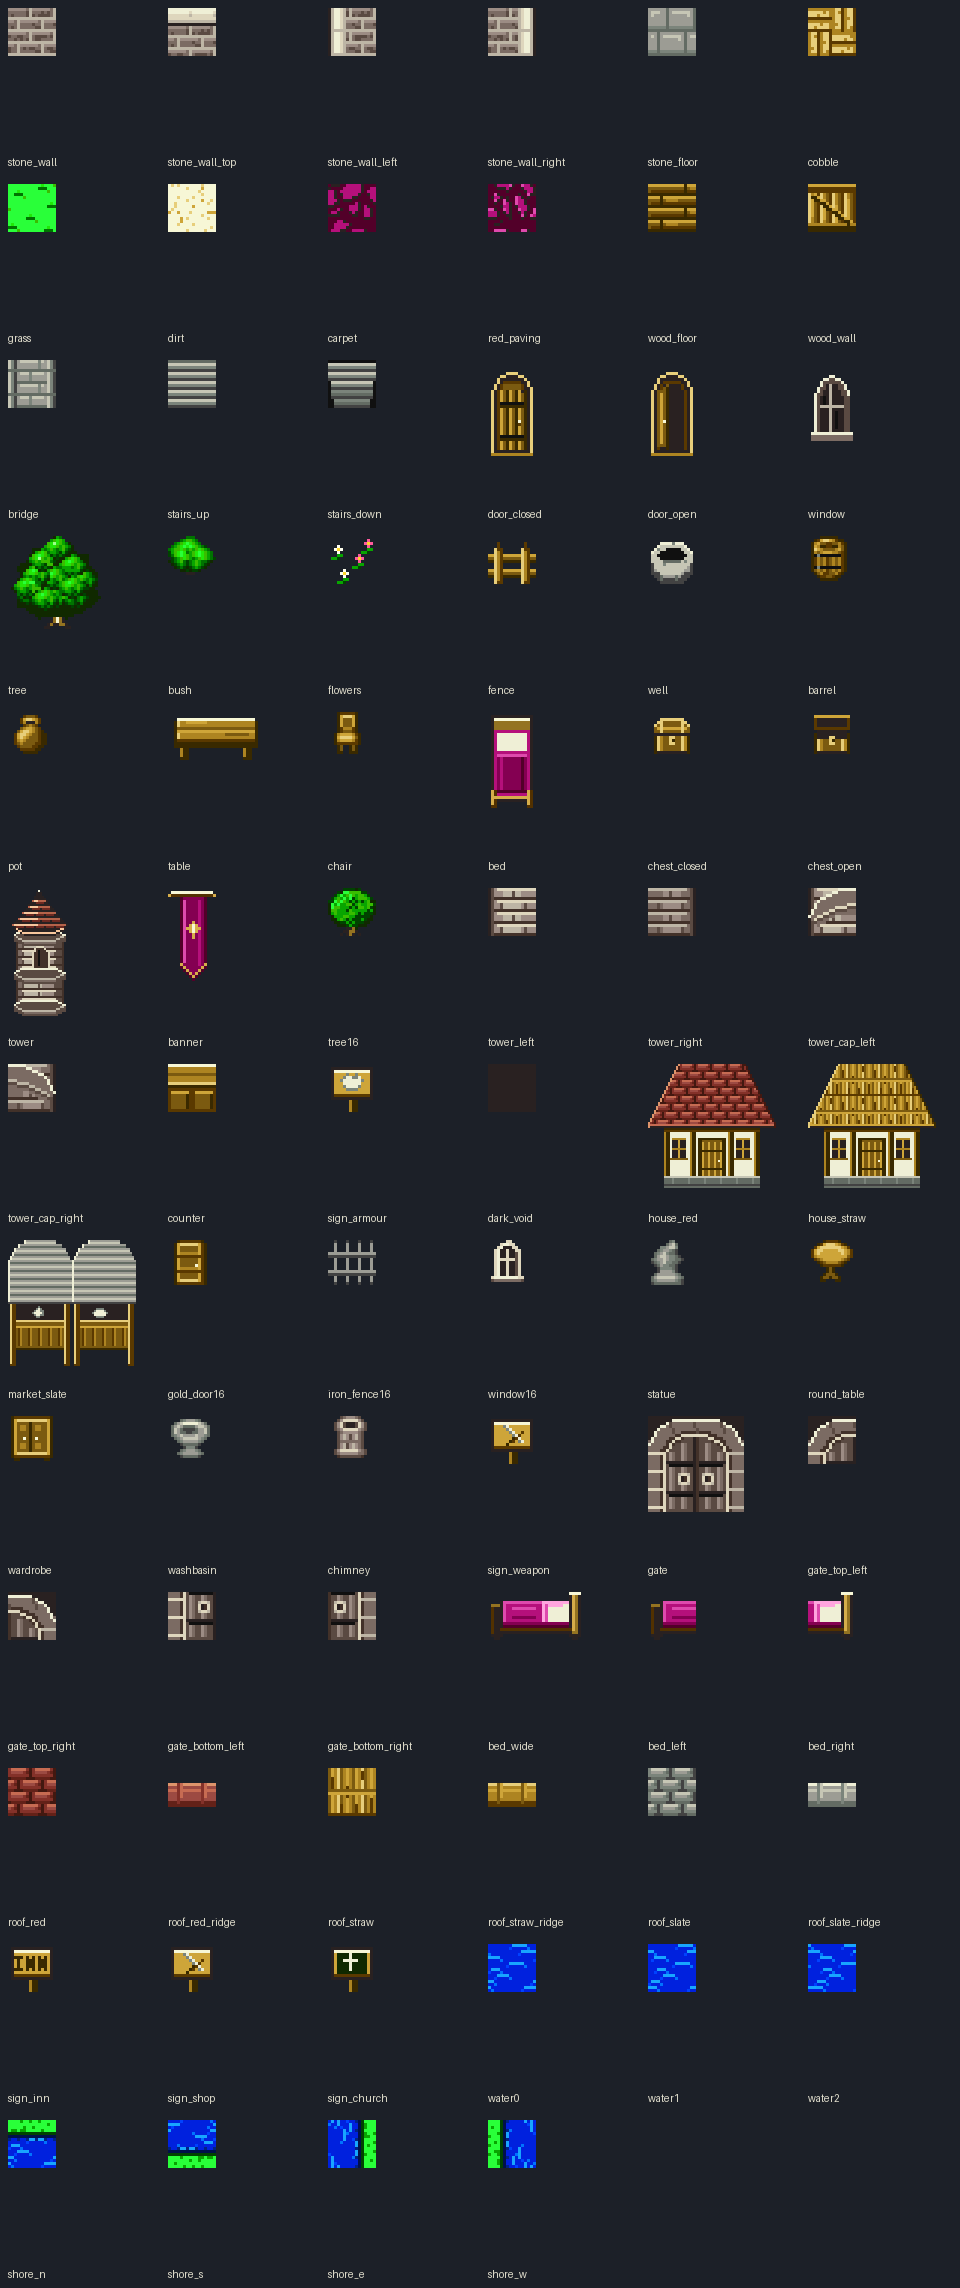
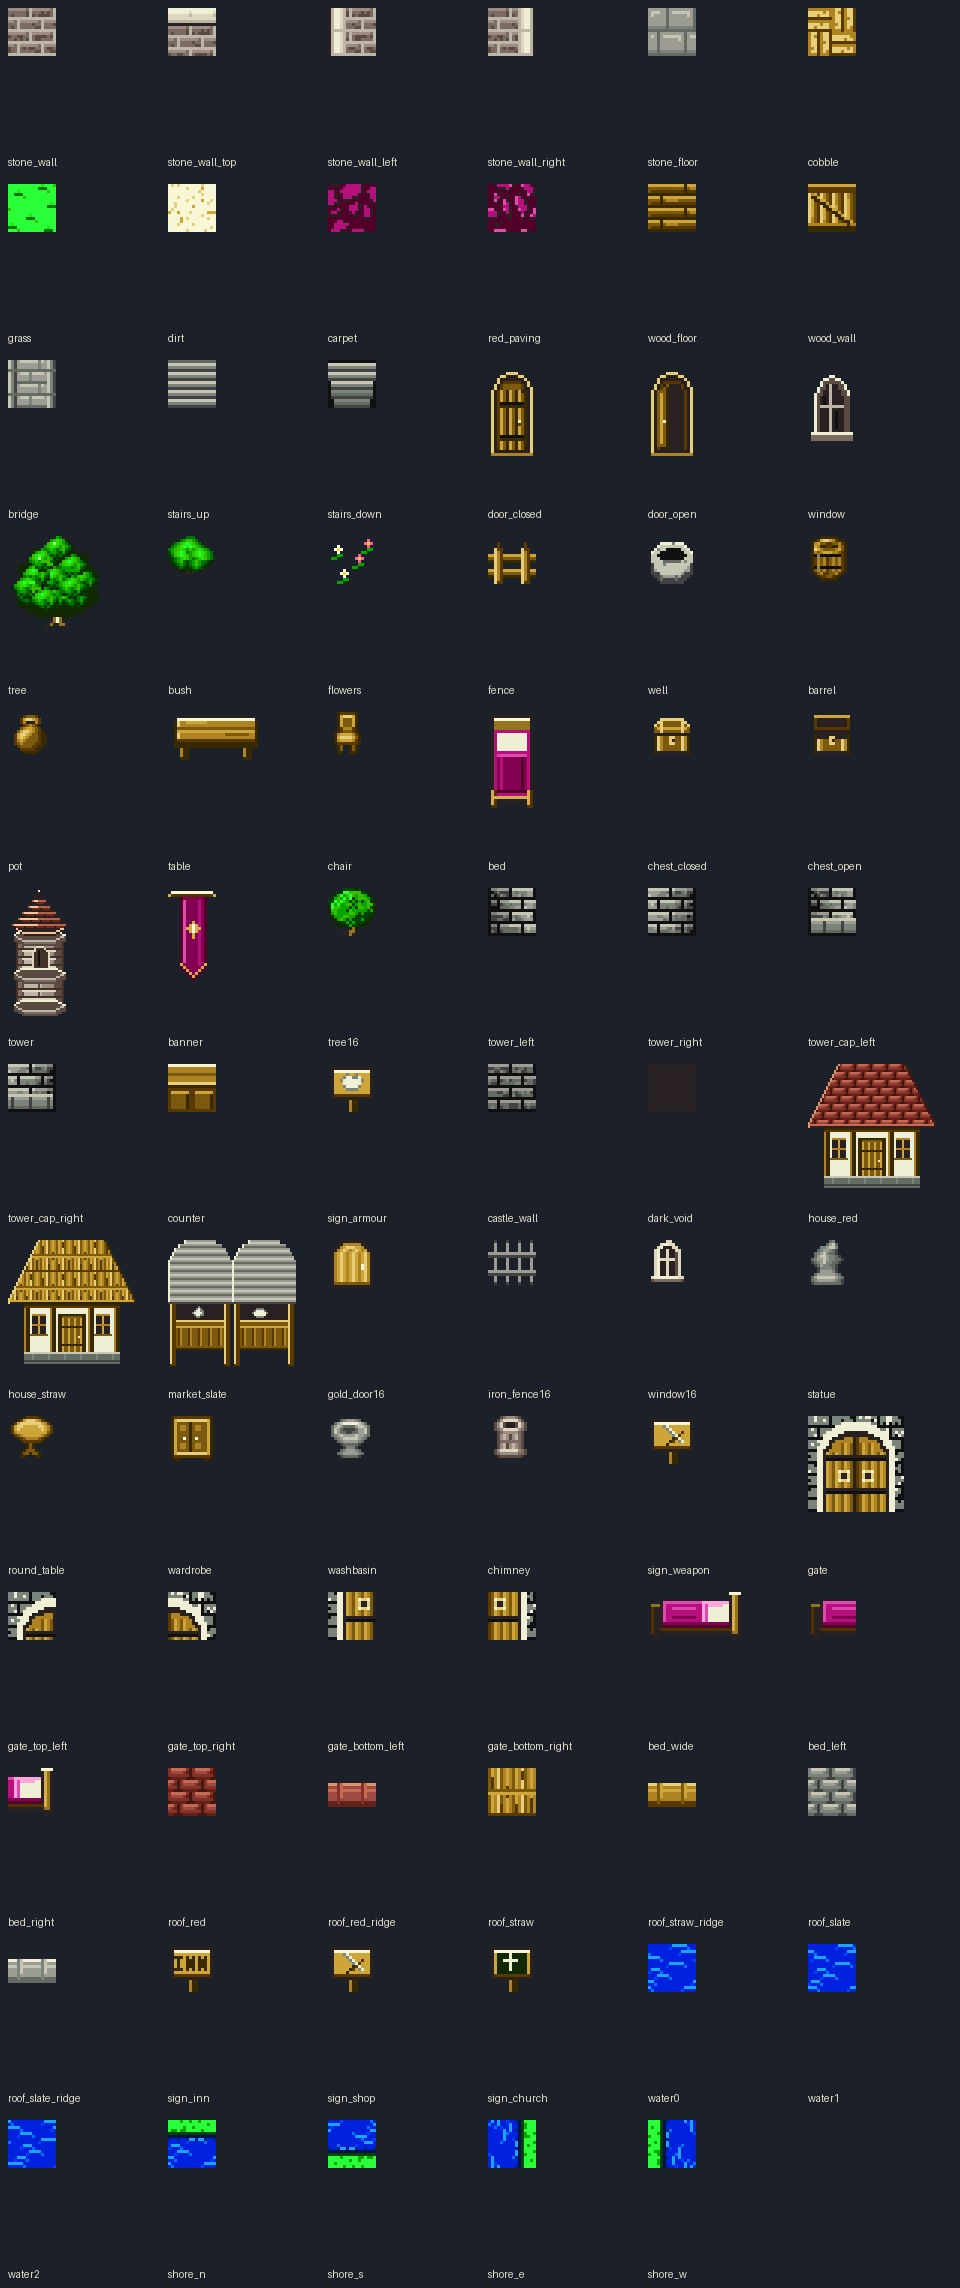
feat: 바트랜드 성 몸체·성탑·문을 어두운 DQ5 석재로 다시 그림
바트랜드 02/00 의 성 몸체는 마을 벽 06·07 과 다른 블록 08 이고 FC 에서도
검은 줄눈의 어두운 벽돌이다. 지금까지 08 을 마을 벽과 같은 밝은 석벽으로
그려 성과 집이 구분되지 않았다. castle_wall 을 따로 두고, 성탑 두 블록은
32픽셀 원통으로 음영을 넣고, 문·성문은 DQ5 식 돌 아치와 나무 문으로 그렸다.
에셋 77종, 인코딩 왕복 RGB 차이 0, 단위 테스트 7개 통과.

diff --git a/sfc/dq4/tools/dq4environmentart.py b/sfc/dq4/tools/dq4environmentart.py
@@ -651,65 +651,87 @@ def _tree16():
     return _finish(c, "작은 활엽수", "town")
 
 
-def _tower_segment(right=False, cap=False):
-    c = _Canvas(2, fill=2)
-    for y in range(0, 16, 4):
+def _castle_bricks(c, x0=0, width=16, top=0, bottom=15, shade=None):
+    """Dark DQ5 castle masonry: black joints, a lit top edge on each brick, speckled faces."""
+    rng = random.Random(31 + x0)
+    for y in range(top, bottom + 1):
+        row, yy = divmod(y - top, 4)
         for x in range(16):
-            color = (3 if x < 2 else 5 if x < 5 else 6 if x < 11 else 5)
-            c.line((x, y, x, y + 2), color)
-        c.line((3, y, 15, y), 7)
-        for x in range(4 if y % 8 else 8, 16, 8):
-            c.line((x, y + 1, x, y + 2), 3)
-    c.line((0, 0, 0, 15), 1)
-    c.line((1, 0, 1, 15), 3)
+            gx = x0 + x
+            body = shade(gx) if shade else 3
+            joint = (gx + (4 if row & 1 else 0)) % 8 == 7
+            if yy == 3 or joint:
+                color = 1
+            elif yy == 0:
+                color = min(body + 2, 6)
+            else:
+                v = rng.random()
+                color = body - 1 if v < 0.25 else body + 1 if v > 0.9 else body
+            c.point((x, y), color)
+
+
+def _castle_wall():
+    c = _Canvas(3)
+    _castle_bricks(c)
+    return _finish(c, "성 석벽")
+
+
+def _tower_segment(right=False, cap=False):
+    """Two blocks side by side form one 32-pixel round tower; brightness follows the curve."""
+    c = _Canvas(3)
+
+    def shade(gx):
+        d = abs(gx - 15.5)
+        return 2 if d > 13 else 3 if d > 9 else 4 if d > 4 else 5
+
+    x0 = 16 if right else 0
+    _castle_bricks(c, x0, shade=shade, bottom=9 if cap else 15)
     if cap:
-        c.poly(((0, 9), (2, 5), (6, 2), (11, 0), (15, 0), (15, 8), (8, 9), (3, 12)), 4)
-        c.line(((0, 9), (2, 5), (6, 2), (11, 0), (15, 0)), 8)
-        c.line(((2, 10), (7, 7), (15, 5)), 7)
-        c.line(((2, 11), (7, 8), (15, 6)), 3)
-    if right:
-        c.image = c.image.transpose(Image.Transpose.FLIP_LEFT_RIGHT)
-        lut = list(range(256))
-        for a, b in ((7, 6), (6, 5), (5, 4)):
-            lut[32 + a] = 32 + b
-        c.image = c.image.point(lut)
-    return _finish(c, "성탑 상단" if cap else "성탑 곡면 석벽")
+        for y, color in ((10, 6), (11, 5), (12, 4), (13, 4), (14, 3), (15, 1)):
+            c.line((0, y, 15, y), color)
+        for x in range(16):
+            if (x0 + x) % 6 == 5:
+                c.line((x, 11, x, 14), 2)
+    edge = 15 if right else 0
+    c.line((edge, 0, edge, 15), 1)
+    return _finish(c, "성탑 아랫단" if cap else "성탑 곡면 석벽")
 
 
 def _gate():
-    c = _Canvas(2, (32, 32), fill=1)
-    c.poly(((0, 31), (0, 8), (3, 4), (8, 1), (23, 1), (28, 4), (31, 8), (31, 31)), 4)
-    c.line(((0, 9), (3, 4), (8, 1), (23, 1), (28, 4), (31, 9)), 8)
-    c.poly(((4, 31), (4, 11), (7, 7), (11, 5), (20, 5), (24, 7), (27, 11), (27, 31)), 2)
-    c.poly(((6, 31), (6, 12), (9, 9), (12, 7), (19, 7), (22, 9), (25, 12), (25, 31)), 3)
-    c.line(((5, 31), (5, 12), (8, 8), (12, 6), (19, 6), (23, 8), (26, 12), (26, 31)), 7)
-    for x in (7, 11, 15, 19, 23):
-        c.line((x, 12 if x in (7, 23) else 9, x, 30), 5)
-        c.line((x + 1, 12 if x in (7, 23) else 9, x + 1, 30), 4)
+    """Arched stone frame around iron-banded wooden doors, all in the wood bank's ramp."""
+    c = _Canvas(4, (32, 32), fill=10)
+    rng = random.Random(41)
+    for y in range(32):
+        for x in range(32):
+            if (y % 4 == 3) or (x + (4 if y // 4 % 2 else 0)) % 8 == 7:
+                c.point((x, y), 9)
+            elif rng.random() < 0.2:
+                c.point((x, y), 9 if rng.random() < 0.5 else 11)
+    c.poly(((3, 31), (3, 10), (6, 5), (11, 2), (20, 2), (25, 5), (28, 10), (28, 31)), 11)
+    c.poly(((5, 31), (5, 11), (8, 7), (12, 5), (19, 5), (23, 7), (26, 11), (26, 31)), 1)
+    c.poly(((6, 31), (6, 12), (9, 8), (12, 7), (19, 7), (22, 8), (25, 12), (25, 31)), 5)
+    for x in range(6, 26):
+        if x % 3 == 2:
+            c.line((x, 9 if 9 < x < 22 else 12, x, 31), 4)
+        elif x % 3 == 0:
+            c.line((x, 9 if 9 < x < 22 else 12, x, 31), 6)
     c.line((15, 7, 15, 31), 1)
-    c.line((16, 7, 16, 31), 2)
-    for y in (15, 25):
-        c.line((6, y, 14, y), 1)
-        c.line((17, y, 25, y), 1)
-        c.line((7, y + 1, 14, y + 1), 9)
-        c.line((17, y + 1, 24, y + 1), 9)
-    c.rows(("6776", "7127", "7127", "6776"), (10, 19))
-    c.rows(("6776", "7127", "7127", "6776"), (18, 19))
-    for y in (12, 18, 24, 30):
-        c.line((0, y, 4, y), 7)
-        c.line((27, y, 31, y), 6)
-    for x in (7, 15, 24):
-        c.line((x, 2, x + 1, 5), 3)
+    c.line((16, 7, 16, 31), 3)
+    for y in (13, 24):
+        c.line((6, y, 25, y), 1)
+        c.line((6, y + 1, 25, y + 1), 9)
+    c.rows(("8778", "7117", "7117", "8778"), (10, 18))
+    c.rows(("8778", "7117", "7117", "8778"), (18, 18))
     return _finish(c, "바트랜드 양쪽 여닫이 성문")
 
 
 def _small_fixture(kind):
     patterns = {
         "gold_door16": (4, (
-            "...233333332....", "..26777777632...", "..26444444632...", "..26444444632...",
-            "..26555555632...", "..23333333332...", "..26444444632...", "..26444444632...",
-            "..26444448632...", "..26555555632...", "..23333333332...", "..26444444632...",
-            "..26444444632...", "..26777777632...", "..23333333332...", "................",
+            "....11111111....", "...1155555511...", "..115677766511..", ".11567656765611.",
+            ".15676567656751.", ".15676567656751.", ".15676567656751.", ".15676567656751.",
+            ".15676567658751.", ".15676567658751.", ".15676567656751.", ".15676567656751.",
+            ".15676567656751.", ".15676567656751.", ".14444444444441.", ".11111111111111.",
         ), "小형 문"),
         "iron_fence16": (3, (
             "..2...2...2...2.", "..5...5...5...5.", "..5...5...5...5.", "..5...5...5...5.",
@@ -909,6 +931,7 @@ def create_assets():
         "tower_cap_right": _tower_segment(True, True),
         "counter": _counter(),
         "sign_armour": _armour_sign(),
+        "castle_wall": _castle_wall(),
         "dark_void": _finish(_Canvas(6, fill=1), "어두운 빈 공간"),
         "house_red": _house("red"),
         "house_straw": _house("straw"),

diff --git a/sfc/dq4/tools/dq4figures.py b/sfc/dq4/tools/dq4figures.py
@@ -19,14 +19,16 @@ def environment_figure():
     return contact_sheet(create_assets())
 
 
-def environment_map_figure(rom):
-    """FC 이무르 블록 배치에 새 환경 에셋을 놓은 맵을 2배로 키운다. 롬이 없으면 None."""
+def environment_map_figure(rom, name="imuru", box=None):
+    """FC 블록 배치에 새 환경 에셋을 놓은 맵(box 로 자름)을 2배로 키운다. 롬이 없으면 None."""
     if not rom.exists():
         return None
     from dq4environmentart import create_assets
     from dq4environmentmap import render_maps
 
-    image = render_maps(rom, create_assets())["imuru"][0].convert("RGB")
+    image = render_maps(rom, create_assets())[name][0].convert("RGB")
+    if box:
+        image = image.crop(box)
     return image.resize((image.width * 2, image.height * 2), Image.Resampling.NEAREST)
 
 
@@ -101,6 +103,8 @@ def main():
         print("rom/dq4.nes 가 없어 dq4-environment-imuru.webp 는 건너뜀")
     else:
         environment_map.save(output / "dq4-environment-imuru.webp", lossless=True)
+        castle = environment_map_figure(ROOT / "rom" / "dq4.nes", "burland", (0, 0, 608, 320))
+        castle.save(output / "dq4-environment-castle.webp", lossless=True)
     for name, image in images.items():
         scale = 1 if name == "map" else 3
         preview = image.convert("RGBA").resize(

diff --git a/sfc/dq4/tools/dq4environmentmap.py b/sfc/dq4/tools/dq4environmentmap.py
@@ -26,7 +26,7 @@ BLOCK_ART = {
         0x05: ("red_paving", "붉은 바닥・실내와 길 공용"),
         0x06: ("stone_wall_top", "석벽 윗줄"),
         0x07: ("stone_wall", "석벽 가운데"),
-        0x08: ("stone_wall", "석벽 아랫줄"),
+        0x08: ("castle_wall", "성 몸체 석벽"),
         0x09: ("tower_cap_left", "성탑 상단 왼쪽"),
         0x0A: ("tower_cap_right", "성탑 상단 오른쪽"),
         0x0B: ("tower_left", "성탑 벽 왼쪽"),

diff --git a/sfc/dq4/journal/2026-10-27-03-castle.md b/sfc/dq4/journal/2026-10-27-03-castle.md
@@ -1,0 +1,33 @@
+# 2026-10-27-03: 바트랜드 성을 어두운 돌로
+
+[환경 타일](2026-10-27-02-environment.md)을 DQ5 색으로 바꾼 뒤에도 바트랜드 성은 마을 집과 같은 밝은 석벽이었습니다. FC 원작과 DQ5 라인하트 성은 둘 다 성을 마을보다 훨씬 어둡게 칠합니다. 결과는 [환경 그래픽 문서](../docs/dq4-environment-format.md#원작-배치)에 있습니다.
+
+## 1. 성 몸체는 다른 블록이었다
+
+바트랜드 `02/00` 의 블록 격자를 위쪽부터 찍어 봤습니다(16 이상은 `g`부터 글자로).
+
+```text
+ 0 112BC8888BC88BC88888888BC88BC8888BC211
+ 9 115BC8888BC88BC8n8gh8n8BC88BC8888BC511
+10 1159A5555BC88BC888kl888BC88BC55559A511
+19 23677E77633677763055200677622267777632
+```
+
+성 몸체는 `08`이고 마을 집 벽은 `06`·`07`입니다. FC 블록 시트에서도 `08`만 검은 줄눈의 어두운 벽돌입니다. 지금까지는 `08`을 마을 벽과 같은 `stone_wall`로 그려 성과 집이 구분되지 않았습니다.
+
+## 2. 다시 그린 것
+
+- `castle_wall`: 검은 줄눈, 벽돌마다 밝은 윗선, 점 질감의 어두운 회색.
+- 성탑 `0B`·`0C`: 두 블록이 32픽셀 원통 하나입니다. 가운데에서 가장자리로 갈수록 어둡게 칠하고 바깥 줄은 검정입니다. 아랫단 `09`·`0A`는 밝은 받침돌 띠로 끝납니다.
+- 문 `0D`: DQ5처럼 검은 테를 두른 둥근 나무 문. 손잡이는 밝은 노랑입니다.
+- 성문 `10`·`11`·`14`·`15`: 줄눈 있는 돌 아치 안에 쇠띠 두른 나무 문 두 짝. 한 8×8 안에 팔레트 하나만 써야 하므로 돌도 나무 팔레트의 회색 세 칸으로 칠합니다.
+
+![FC 바트랜드 블록 배치에 새 타일을 놓은 성 앞. 어두운 회색 성 몸체와 원통 성탑, 아치 나무 문, 붉은 돌 포장](../images/dq4-environment-castle.webp)
+
+## 3. 검증
+
+에셋 77종 생성, 인코딩 왕복 RGB 차이 0. 단위 테스트 7개 통과.
+
+## 남은 것
+
+- 창문·석상은 형태를 유지하고 색만 DQ5 램프입니다.

diff --git a/sfc/dq4/todo.md b/sfc/dq4/todo.md
@@ -6,7 +6,7 @@
 
 SFC DQ5 엔진에 넣을 포팅용 그래픽. 시작점은 [handoff.md](handoff.md). FC 원작 분석의 남은 일은 [fc/dq4/todo.md](../../fc/dq4/todo.md) 에 있습니다.
 
-- **환경 그래픽**: [환경 타일](docs/dq4-environment-format.md)의 바트랜드 성탑·성벽 색을 FC와 견주기, 문·간판·가구·성탑을 DQ5 구조로 다시 그리기, 건물 높이·지붕을 반영한 게임용 맵 조립, DQ5용 CHR·블록·팔레트 배정과 영구 패치, 물 애니메이션·문 열림·통행·출구·이벤트 연결, 다른 지역·던전·필드 지형으로 확대.
+- **환경 그래픽**: [환경 타일](docs/dq4-environment-format.md)의 건물 높이·지붕을 반영한 게임용 맵 조립, DQ5용 CHR·블록·팔레트 배정과 영구 패치, 물 애니메이션·문 열림·통행·출구·이벤트 연결, 다른 지역·던전·필드 지형으로 확대.
 - **이름 입력 후속 확인**: [조합형 이름 입력](docs/dq4-name-entry-format.md)의 메뉴 밖 메시지·상태 창의 한글 이름 표시, 기존 가나 이름과 새 2바이트 부호를 구분하는 저장 형식은 남았습니다.
 - **메뉴 메시지 후속**: [메뉴 메시지](docs/dq4-menu-format.md#메뉴-메시지)를 옮긴 뒤 원래 보행 메시지 자리 `07:D77C`~`0C:8020` 을 색인 밖에서 읽는 코드가 있는지, 글자 그림 뒤 `08:F277`~`0C:8020` 의 쓰임.
 - **메뉴 한글화의 확인**: 창 `62` 가 게임 안에서 쓰이는지, 공용 창 자리 `7E:1AC0`~`1AEF` 를 실행하지 않은 코드가 쓰는지.
